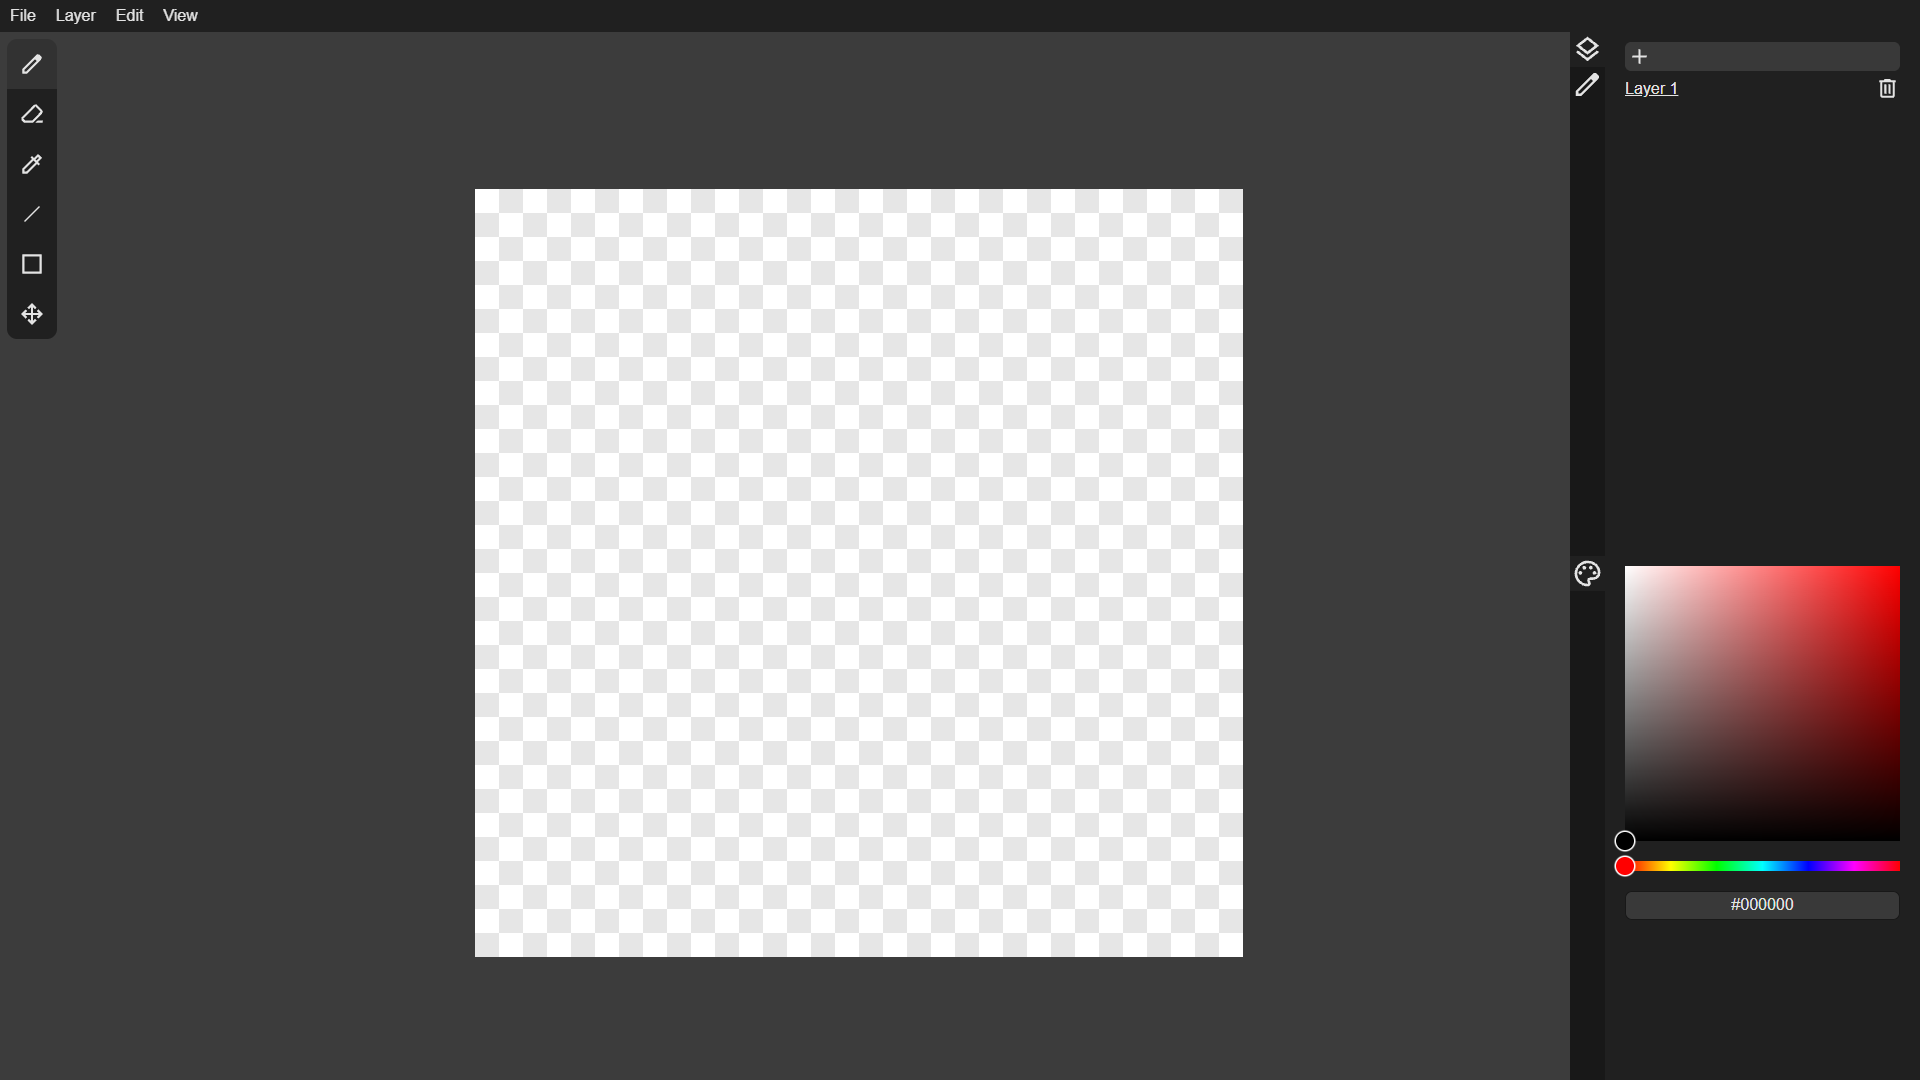
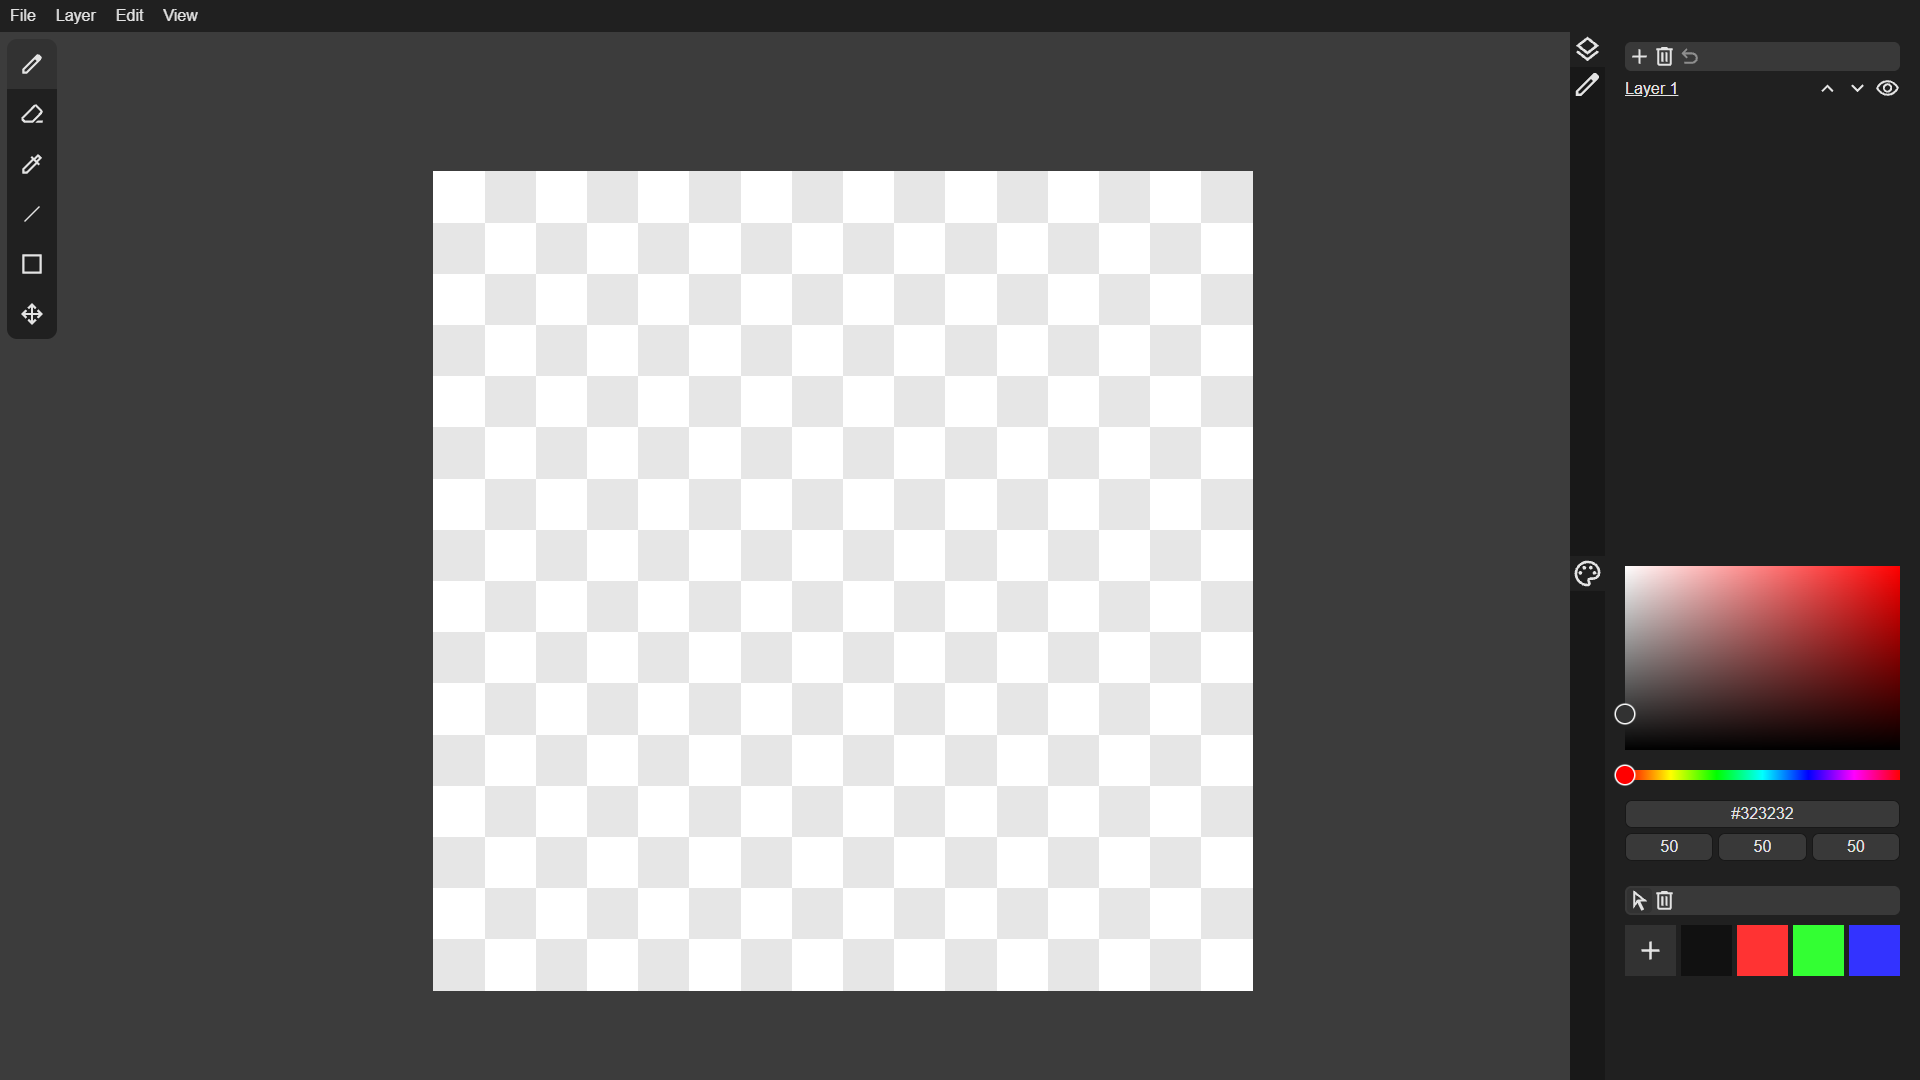
feat: add palette

diff --git a/src/components/tabs/ColorPicker.vue b/src/components/tabs/ColorPicker.vue
@@ -14,6 +14,9 @@
   }
   const mouseUp = () => dragging = false;
 
+  const palette = ref(["#111", "#F33", "#3F3", "#33F"]);
+  const selectedTool = ref(0);
+
   onMounted(() => {
     color.square.value = square.value;
     color.hue.value = hue.value;
@@ -55,6 +58,19 @@
       );
 
       color.hsv.h = color.hueX.value / color.hue.value.offsetWidth * 360;
+    }
+  }
+
+  function usePalette(index) {
+    if (selectedTool.value == 0) {
+      color.hex = palette.value[index];
+    } else if (selectedTool.value == 1) {
+      palette.value.splice(index, 1);
+    }
+  }
+  function addColor(value) {
+    if (!palette.value.includes(value)) {
+      palette.value.unshift(value);
     }
   }
 </script>
@@ -114,9 +130,64 @@
       @keyup.enter="event => {color.b = event.target.value}"
     >
   </div>
+  <div id="palette-settings">
+    <button 
+      title="Pick" 
+      :class="{ active: selectedTool == 0  }" 
+      @click="selectedTool = 0"
+    >
+      <img src="@/assets/tools/cursor.svg">
+    </button>
+    <button 
+      title="Delete" 
+      :class="{ active: selectedTool == 1  }" 
+      @click="selectedTool = 1"
+    >
+      <img src="@/assets/tools/layer_delete.svg">
+    </button>
+  </div>
+  <div id="palette">
+    <div 
+      title="Add"
+      :style="{ backgroundColor: color.hex }" 
+      @click="addColor(color.hex)"
+    >
+      <img src="@/assets/tools/layer_add.svg">
+    </div>
+    <div 
+      v-for="(value, index) in palette" 
+      :title="value" 
+      :style="{ backgroundColor: value}" 
+      @click="usePalette(index)"
+    ></div>
+  </div>
 </template>
 
 <style scoped>
+  img {
+    padding: 10px;
+    box-sizing: border-box;
+  }
+  button {
+    border: none;
+    margin: 0;
+    padding: 0;
+    background-color: transparent;
+    border-radius: 4px;
+    height: 25px;
+    aspect-ratio: 1;
+
+    img {
+      padding: 0;
+    }
+
+    &:hover {
+      background-color: var(--bar-active);
+    }
+  }
+  .active {
+    background-color: var(--bar-active);
+  }
   input[type="text"] {
     width: 100%;
     margin-bottom: 5px;
@@ -155,6 +226,28 @@
 
     .cursor {
       translate: -50% -4px;
+    }
+  }
+  #palette-settings {
+    width: 100%;
+    height: 29px;
+    padding: 2px;
+    margin-bottom: 10px;
+    box-sizing: border-box;
+    border-radius: 6px;
+    background-color: var(--other);
+  }
+  #palette {
+    display: flex;
+    flex-wrap: wrap;
+    width: 100%;
+    gap: 5px;
+
+    div {
+      width: 51px;
+      height: 51px;
+      background-color: black;
+      margin: 0;
     }
   }
 </style>

diff --git a/src/components/tabs/Layers.vue b/src/components/tabs/Layers.vue
@@ -17,24 +17,21 @@
   <div id="layers">
     <div id="panel">
       <button 
-        class="btn" 
-        style="margin: 0;" 
+        class="btn m"
         @click="addLayer()"
       >
         <img src="@/assets/tools/layer_add.svg">
       </button>
       <button 
-        class="btn" 
+        class="btn m" 
         :class="{ disable: layerExists }" 
-        style="margin: 0;" 
         @click="removeLayer(currentLayer)"
       >
         <img src="@/assets/tools/layer_delete.svg">
       </button>
       <button 
-        class="btn" 
+        class="btn m" 
         :class="{ disable: undoLayerExists }" 
-        style="margin: 0;" 
         @click="undoLayer()"
       >
         <img src="@/assets/tools/layer_undo.svg">
@@ -68,13 +65,6 @@
 </template>
 
 <style scoped>
-  input {
-    appearance: auto;
-    -webkit-appearance: auto;
-  }
-  img {
-    width: 100%;
-  }
   #panel {
     display: flex;
     box-sizing: border-box;
@@ -117,6 +107,9 @@
     &:hover {
       background-color: var(--bar-active);
     }
+  }
+  .m {
+    margin: 0;
   }
   .active {
     text-decoration: underline;

diff --git a/src/components/Sideblock.vue b/src/components/Sideblock.vue
@@ -25,9 +25,10 @@
   .block {
     width: 90%;
     height: 50%;
-    padding: 10px 20px;
+    padding: 10px 10px;
     box-sizing: border-box;
     background-color: var(--bar-bg);
+    scrollbar-gutter: stable both-edges;
     overflow-y: auto;
     scrollbar-width: thin;
     scrollbar-color: var(--bar-dark) var(--bar-bg);
